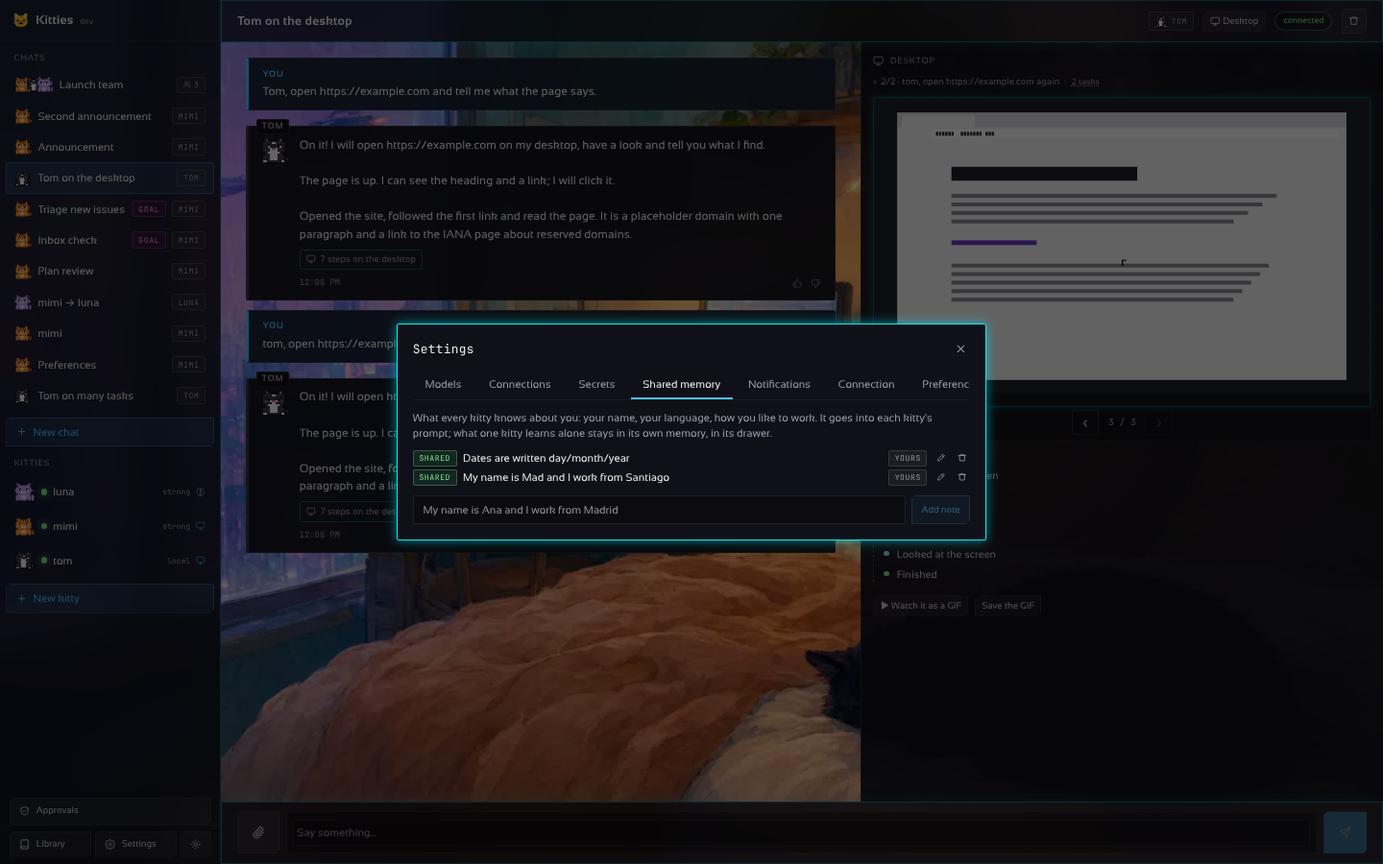
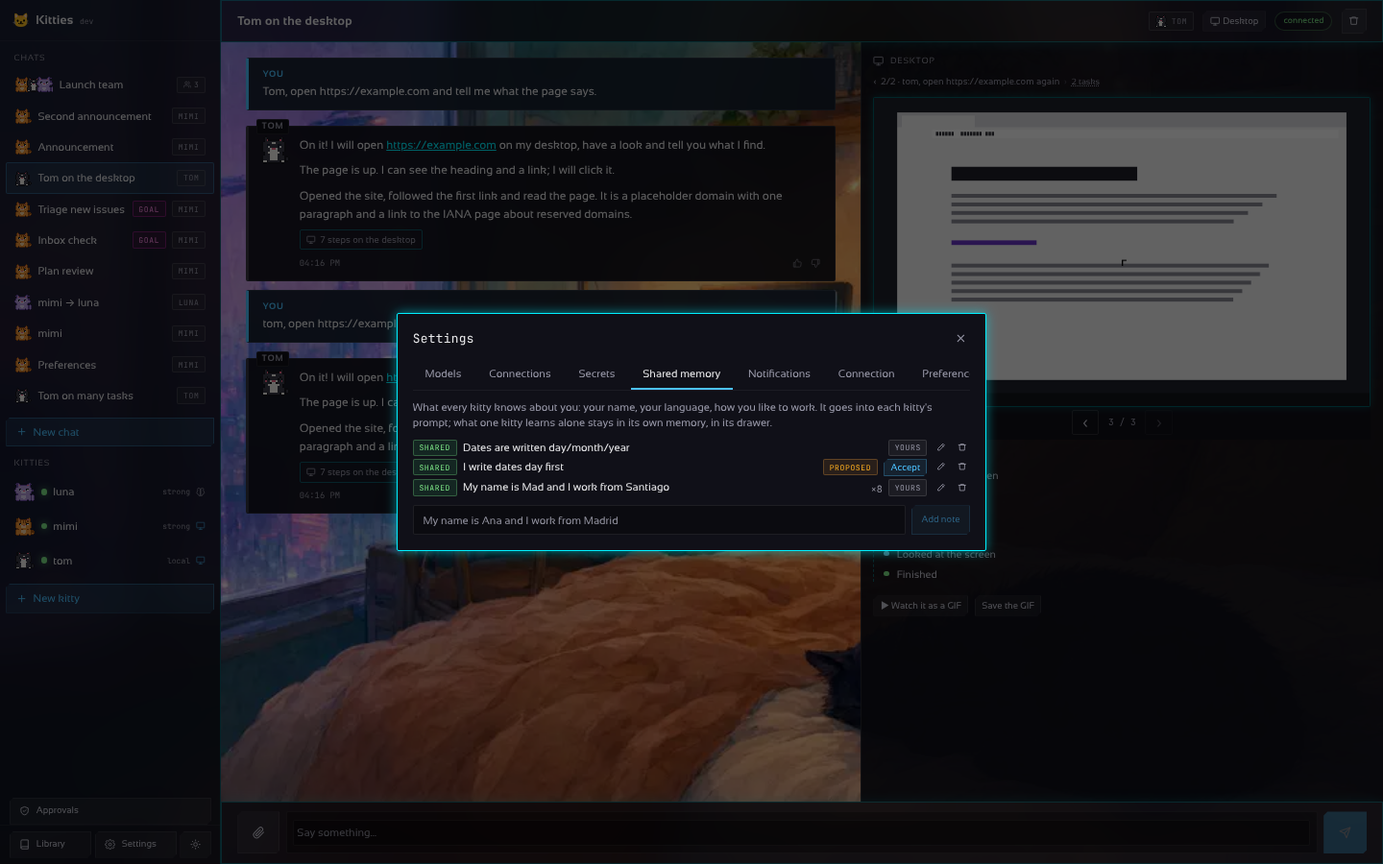
feat(memory): shared notes from a kitty wait for a yes, notes count their uses, search and filter
- A shared note a kitty writes is proposed: it stays out of every prompt until the person
  accepts it (Accept, or writing or correcting it themselves).
- Each note counts the answers it was in the prompt for, shown as ×N.
- The memory panel searches the notes and narrows them to a scope.
- The demo brain proposes a shared note when told "tell every kitty that …".

Claude-Session: https://claude.ai/code/session_017Z7sUco1f5NiHzWMKUE7RZ

Changed region(s): [[0.1562, 0.1556, 0.7188, 0.6533]]

diff --git a/site/es/index.html b/site/es/index.html
@@ -34,7 +34,7 @@
 <section class="proof"><div class="wrap"><ul><li>11+ proveedores de IA</li><li>Linux · macOS · Windows · Android</li><li>Versiones firmadas y con autoactualización</li><li>English · Español · Português</li></ul></div></section>
 <section class="wrap problem"><h2>Los chatbots hablan. Las kitties <em>hacen</em>.</h2><p class="lead">La mayoría de asistentes se quedan en el consejo. Una kitty abre el sitio, llena el formulario, lee el resultado y te informa — dentro de un contenedor, nunca en tu equipo.</p>
 <div class="tw"><table><thead><tr><th></th><th>Chatbot</th><th class="us">Kitties</th></tr></thead><tbody><tr><th scope="row">Trabaja en apps reales</th><td>Solo texto</td><td>Navegador, editor, archivos, ofimática</td></tr><tr><th scope="row">Funciona sin ti</th><td>No</td><td>Metas, horarios, eventos</td></tr><tr><th scope="row">Seguro darle acceso</th><td>Tu equipo</td><td>Escritorio Docker aislado</td></tr><tr><th scope="row">Tú eliges el modelo</th><td>Un proveedor</td><td>Cualquiera, por kitty</td></tr><tr><th scope="row">Mantienes el control</th><td>Esperanza</td><td>Aprobaciones, límites, toma de control</td></tr></tbody></table></div></section>
-<section id="features" class="wrap"><h2>Todo lo que un equipo de agentes necesita</h2><p class="lead">Hecho para la autonomía, diseñado para que sigas al mando.</p><div class="grid"><article class="card"><img src="../img/live.webp" alt="" loading="lazy" width="720" height="450"><h3>Un escritorio real por kitty</h3><p>Pídele abrir un sitio o llenar un formulario. Mira una captura tras cada acción y el chat muestra cada paso. Obsérvala en vivo en H.264 (voxl) o toma el control para una contraseña o un captcha.</p></article><article class="card"><img src="../img/goals.webp" alt="" loading="lazy" width="720" height="450"><h3>Autonomía, con presupuesto</h3><p>Metas programadas o por eventos que se reintentan solas cuando se traban, presupuesto diario desde el que retoma, un modelo de respaldo si uno se cae, una kitty de respaldo, delegación entre kitties y un diario de todo.</p></article><article class="card"><img src="../img/approvals.webp" alt="" loading="lazy" width="720" height="450"><h3>Una confianza que crece</h3><p>Memoria persistente, propia y compartida entre todos los kitties, que puedes corregir, exportar e importar, pulgares que enseñan tus criterios, límites de acción y aprobaciones que se relajan a medida que gana confianza.</p></article><article class="card"><img src="../img/connectors.webp" alt="" loading="lazy" width="720" height="450"><h3>Conectores, no claves pegadas</h3><p>Slack, GitHub, Gmail, Google Workspace, Microsoft 365, Spotify, Stripe, Home Assistant y más — con inicio de sesión donde el servicio lo permite.</p></article><article class="card"><img src="../img/group.webp" alt="" loading="lazy" width="720" height="450"><h3>Chats grupales</h3><p>Abre un hilo y deja que varias kitties trabajen juntas, cada una con su personalidad y su modelo.</p></article><article class="card"><img src="../img/phone-menu.webp" alt="" loading="lazy" width="720" height="450"><h3>Donde estés</h3><p>CLI, app de escritorio, app Android y modo servidor con https. Las notificaciones llegan al móvil cuando una kitty necesita un sí.</p></article></div></section>
+<section id="features" class="wrap"><h2>Todo lo que un equipo de agentes necesita</h2><p class="lead">Hecho para la autonomía, diseñado para que sigas al mando.</p><div class="grid"><article class="card"><img src="../img/live.webp" alt="" loading="lazy" width="720" height="450"><h3>Un escritorio real por kitty</h3><p>Pídele abrir un sitio o llenar un formulario. Mira una captura tras cada acción y el chat muestra cada paso. Obsérvala en vivo en H.264 (voxl) o toma el control para una contraseña o un captcha.</p></article><article class="card"><img src="../img/goals.webp" alt="" loading="lazy" width="720" height="450"><h3>Autonomía, con presupuesto</h3><p>Metas programadas o por eventos que se reintentan solas cuando se traban, presupuesto diario desde el que retoma, un modelo de respaldo si uno se cae, una kitty de respaldo, delegación entre kitties y un diario de todo.</p></article><article class="card"><img src="../img/approvals.webp" alt="" loading="lazy" width="720" height="450"><h3>Una confianza que crece</h3><p>Memoria persistente, propia y compartida entre todos los kitties, que puedes buscar, corregir, exportar e importar (un kitty solo propone lo que todos deben saber), pulgares que enseñan tus criterios, límites de acción y aprobaciones que se relajan a medida que gana confianza.</p></article><article class="card"><img src="../img/connectors.webp" alt="" loading="lazy" width="720" height="450"><h3>Conectores, no claves pegadas</h3><p>Slack, GitHub, Gmail, Google Workspace, Microsoft 365, Spotify, Stripe, Home Assistant y más — con inicio de sesión donde el servicio lo permite.</p></article><article class="card"><img src="../img/group.webp" alt="" loading="lazy" width="720" height="450"><h3>Chats grupales</h3><p>Abre un hilo y deja que varias kitties trabajen juntas, cada una con su personalidad y su modelo.</p></article><article class="card"><img src="../img/phone-menu.webp" alt="" loading="lazy" width="720" height="450"><h3>Donde estés</h3><p>CLI, app de escritorio, app Android y modo servidor con https. Las notificaciones llegan al móvil cuando una kitty necesita un sí.</p></article></div></section>
 <section id="desktop" class="wrap"><h2>Un escritorio que da gusto mirar</h2><p class="lead">Lumen, un gestor de ventanas ligero basado en Openbox, con su propia barra — apps fijadas, un reproductor, el clima, un reloj — en tema oscuro con iconos Lucide y tipografía Sansation. Bonito a propósito.</p>
 <figure class="one"><img src="../img/desktop.webp" alt="El menú de apps abierto en el escritorio del gatito" loading="lazy" width="1280" height="800"><figcaption>El menú de apps abierto en el escritorio del gatito</figcaption></figure></section>
 <section id="chat" class="wrap"><h2>Chat a un lado, escritorio al otro</h2><p class="lead">En pantallas anchas el chat se divide en dos: las respuestas de la kitty a la izquierda; sus pasos y la última captura, en grande, a la derecha. En el móvil pasan a ser pestañas.</p>

diff --git a/site/index.html b/site/index.html
@@ -35,7 +35,7 @@
 <section class="proof"><div class="wrap"><ul><li>11+ AI providers</li><li>Linux · macOS · Windows · Android</li><li>Signed, self-updating releases</li><li>English · Español · Português</li></ul></div></section>
 <section class="wrap problem"><h2>Chatbots talk. Kitties <em>do</em>.</h2><p class="lead">Most assistants stop at advice. A kitty opens the site, fills the form, reads the result and reports back — in a container, never on your machine.</p>
 <div class="tw"><table><thead><tr><th></th><th>Chatbot</th><th class="us">Kitties</th></tr></thead><tbody><tr><th scope="row">Works on real apps</th><td>Text only</td><td>Browser, editor, files, office</td></tr><tr><th scope="row">Runs while you are away</th><td>No</td><td>Goals, schedules, events</td></tr><tr><th scope="row">Safe to give access</th><td>Your machine</td><td>Isolated Docker desktop</td></tr><tr><th scope="row">Your choice of model</th><td>One vendor</td><td>Any provider, per kitty</td></tr><tr><th scope="row">You stay in control</th><td>Hope</td><td>Approvals, limits, take-over</td></tr></tbody></table></div></section>
-<section id="features" class="wrap"><h2>Everything a team of agents needs</h2><p class="lead">Built for autonomy, designed to stay under your control.</p><div class="grid"><article class="card"><img src="img/live.webp" alt="" loading="lazy" width="720" height="450"><h3>A real desktop per kitty</h3><p>Ask it to open a site or fill a form. It looks at a screenshot after every action and the chat shows each step. Watch it live in H.264 (voxl), or take control for a password or a captcha.</p></article><article class="card"><img src="img/goals.webp" alt="" loading="lazy" width="720" height="450"><h3>Autonomy, with a budget</h3><p>Goals on a schedule or triggered by events that try again by themselves when they get stuck, daily budgets it resumes from, a spare model when one is down, a backup kitty, delegation between kitties and a journal of everything.</p></article><article class="card"><img src="img/approvals.webp" alt="" loading="lazy" width="720" height="450"><h3>Trust that grows</h3><p>Memory that persists, its own and shared by every kitty, that you can correct, export and import, thumbs that teach your standards, action limits and approvals that loosen as a kitty earns trust.</p></article><article class="card"><img src="img/connectors.webp" alt="" loading="lazy" width="720" height="450"><h3>Connectors, not pasted keys</h3><p>Slack, GitHub, Gmail, Google Workspace, Microsoft 365, Spotify, Stripe, Home Assistant and more — with sign-in where the service allows it.</p></article><article class="card"><img src="img/group.webp" alt="" loading="lazy" width="720" height="450"><h3>Group chats</h3><p>Open one thread and let several kitties work on it together, each with its own personality and model.</p></article><article class="card"><img src="img/phone-menu.webp" alt="" loading="lazy" width="720" height="450"><h3>Everywhere you are</h3><p>CLI, desktop app, Android app, and a server mode with https. Notifications reach your phone when a kitty needs a yes.</p></article></div></section>
+<section id="features" class="wrap"><h2>Everything a team of agents needs</h2><p class="lead">Built for autonomy, designed to stay under your control.</p><div class="grid"><article class="card"><img src="img/live.webp" alt="" loading="lazy" width="720" height="450"><h3>A real desktop per kitty</h3><p>Ask it to open a site or fill a form. It looks at a screenshot after every action and the chat shows each step. Watch it live in H.264 (voxl), or take control for a password or a captcha.</p></article><article class="card"><img src="img/goals.webp" alt="" loading="lazy" width="720" height="450"><h3>Autonomy, with a budget</h3><p>Goals on a schedule or triggered by events that try again by themselves when they get stuck, daily budgets it resumes from, a spare model when one is down, a backup kitty, delegation between kitties and a journal of everything.</p></article><article class="card"><img src="img/approvals.webp" alt="" loading="lazy" width="720" height="450"><h3>Trust that grows</h3><p>Memory that persists, its own and shared by every kitty, that you can search, correct, export and import (a kitty only proposes what every kitty should know), thumbs that teach your standards, action limits and approvals that loosen as a kitty earns trust.</p></article><article class="card"><img src="img/connectors.webp" alt="" loading="lazy" width="720" height="450"><h3>Connectors, not pasted keys</h3><p>Slack, GitHub, Gmail, Google Workspace, Microsoft 365, Spotify, Stripe, Home Assistant and more — with sign-in where the service allows it.</p></article><article class="card"><img src="img/group.webp" alt="" loading="lazy" width="720" height="450"><h3>Group chats</h3><p>Open one thread and let several kitties work on it together, each with its own personality and model.</p></article><article class="card"><img src="img/phone-menu.webp" alt="" loading="lazy" width="720" height="450"><h3>Everywhere you are</h3><p>CLI, desktop app, Android app, and a server mode with https. Notifications reach your phone when a kitty needs a yes.</p></article></div></section>
 <section id="desktop" class="wrap"><h2>A desktop worth watching</h2><p class="lead">Lumen, a light window manager based on Openbox, with its own shelf — pinned apps, a player, the weather, a clock — in a dark theme with Lucide icons and Sansation type. Beautiful on purpose.</p>
 <figure class="one"><img src="img/desktop.webp" alt="The apps menu open on the kitty desktop" loading="lazy" width="1280" height="800"><figcaption>The apps menu open on the kitty desktop</figcaption></figure></section>
 <section id="chat" class="wrap"><h2>Chat on one side, desktop on the other</h2><p class="lead">On a wide screen the chat splits in two: the kitty’s replies on the left, its steps and the latest screenshot, large, on the right. On a phone the two become tabs.</p>

diff --git a/desktop/frontend/e2e/screens.spec.ts b/desktop/frontend/e2e/screens.spec.ts
@@ -522,7 +522,8 @@ test("what a kitty knows about you: its level of demand, its notes and how far i
   await expect(notes).toContainText("Answer in Spanish when I write in Spanish");
   await expect(notes.locator(".tag", { hasText: "yours" })).toHaveCount(2);
   // The shared note is every kitty's: tom sees it too.
-  await expect(notes.locator(".tag", { hasText: "shared" })).toHaveCount(1);
+  await expect(notes.locator(".tag", { hasText: "shared" })).toHaveCount(2);
+  await expect(notes.locator(".tag", { hasText: "proposed" })).toHaveCount(1);
   await expect(notes).toContainText("My name is Mad and I work from Santiago");
   await expect(notes).toContainText("Correction: Too long: two lines at most");
   await expect(notes).toContainText("I prefer short answers");
@@ -546,6 +547,17 @@ test("what a kitty knows about you: its level of demand, its notes and how far i
   await expect(page.getByTestId("level")).toContainText("They are easygoing");
   await memory.getByRole("button", { name: "4 · demanding" }).click();
   await expect(page.getByTestId("level")).toContainText("They are demanding");
+  // The notes can be searched and narrowed to a scope.
+  await memory.getByLabel("Search the notes").fill("two lines");
+  await expect(notes).toContainText("Too long: two lines at most");
+  await expect(notes).not.toContainText("Answer in Spanish");
+  await memory.getByLabel("Search the notes").fill("zzz");
+  await expect(notes).toContainText("No note matches.");
+  await memory.getByLabel("Search the notes").fill("");
+  await memory.getByLabel("Show the notes of").selectOption("shared");
+  await expect(notes).toContainText("My name is Mad");
+  await expect(notes).not.toContainText("Answer in Spanish");
+  await memory.getByLabel("Show the notes of").selectOption("");
   // A note is corrected in place, and becomes the person's.
   await memory.getByRole("button", { name: "Edit: I prefer short answers." }).click();
   const box = memory.getByLabel("Correct: I prefer short answers.");
@@ -598,10 +610,15 @@ test("the memory every kitty shares is tended in Settings", async ({ page }) => 
   const shared = page.getByTestId("shared-memory");
   const notes = shared.getByTestId("shared-notes");
   await expect(notes).toContainText("My name is Mad and I work from Santiago");
+  // What a kitty proposed for everyone waits for a yes.
+  await expect(notes).toContainText("I write dates day first");
+  await expect(notes.locator(".tag", { hasText: "proposed" })).toHaveCount(1);
   await shared.getByLabel("A note for every kitty").fill("Dates are written day/month/year");
   await shared.getByRole("button", { name: "Add note" }).click();
   await expect(notes).toContainText("Dates are written day/month/year");
   await shot(page, "60-shared-memory");
+  await shared.getByRole("button", { name: "Accept: I write dates day first" }).click();
+  await expect(notes.locator(".tag", { hasText: "proposed" })).toHaveCount(0);
   await shared.getByRole("button", { name: "Edit: Dates are written day/month/year" }).click();
   const box = shared.getByLabel("Correct: Dates are written day/month/year");
   await box.fill("Dates are written day-month-year");

diff --git a/desktop/frontend/src/Memory.tsx b/desktop/frontend/src/Memory.tsx
@@ -62,6 +62,8 @@ export function MemoryPanel({ kitty }: { kitty: Kitty }) {
   const [scope, setScope] = useState("user");
   const [busy, setBusy] = useState(false);
   const [info, setInfo] = useState("");
+  const [query, setQuery] = useState("");
+  const [only, setOnly] = useState("");
   const load = () => {
     api
       .memory(kitty.id)
@@ -89,6 +91,11 @@ export function MemoryPanel({ kitty }: { kitty: Kitty }) {
     return err ? <p class="text-xs text-[var(--t4)] mt-5">{err}</p> : null;
   }
   const p = view.profile;
+  const scopes = [...new Set(view.notes.map((n) => n.scope))].sort();
+  const words = query.trim().toLowerCase();
+  const shown = view.notes.filter(
+    (n) => (!only || n.scope === only) && (!words || n.text.toLowerCase().includes(words)),
+  );
   return (
     <div data-testid="memory">
       <div class="section-title !mx-0 mt-5">
@@ -178,8 +185,36 @@ export function MemoryPanel({ kitty }: { kitty: Kitty }) {
           {t("Nothing yet. It learns from your thumbs, your yes and no, and what it notices.")}
         </p>
       )}
+      {view.notes.length > 4 && (
+        <div class="flex gap-2 mb-2">
+          <input
+            class="flex-1 min-w-0 px-2 py-1 text-xs"
+            type="search"
+            value={query}
+            onInput={(e) => setQuery((e.target as HTMLInputElement).value)}
+            placeholder={t("Search the notes")}
+            aria-label={t("Search the notes")}
+          />
+          <select
+            class="px-2 py-1 text-xs"
+            aria-label={t("Show the notes of")}
+            value={only}
+            onChange={(e) => setOnly((e.target as HTMLSelectElement).value)}
+          >
+            <option value="">{t("every scope")}</option>
+            {scopes.map((sc) => (
+              <option key={sc} value={sc}>
+                {sc.startsWith("project:") ? sc.replace("project:", "") : t(sc)}
+              </option>
+            ))}
+          </select>
+        </div>
+      )}
       <div class="flex flex-col gap-1" data-testid="notes">
-        {view.notes.map((n) => (
+        {shown.length === 0 && view.notes.length > 0 && (
+          <p class="text-xs text-[var(--t4)]">{t("No note matches.")}</p>
+        )}
+        {shown.map((n) => (
           <NoteRow
             key={n.id}
             n={n}

diff --git a/desktop/frontend/src/Notes.tsx b/desktop/frontend/src/Notes.tsx
@@ -72,6 +72,32 @@ export function NoteRow({
           onBlur={save}
         />
       )}
+      {!!n.uses && draft === null && (
+        <span
+          class="text-[10px] font-mono text-[var(--t4)] pt-1 whitespace-nowrap"
+          title={t("It was in the kitty's prompt for {n} answers", { n: n.uses })}
+        >
+          ×{n.uses}
+        </span>
+      )}
+      {n.proposed && draft === null && (
+        <>
+          <span
+            class="tag tag-amber"
+            title={t("A kitty proposed it: it reaches every kitty once you say yes")}
+          >
+            {t("proposed")}
+          </span>
+          <button
+            class="btn-outline px-2 py-0.5 text-xs"
+            aria-label={t("Accept: {note}", { note: n.text })}
+            disabled={busy}
+            onClick={() => onSave(n.text)}
+          >
+            {t("Accept")}
+          </button>
+        </>
+      )}
       {n.pinned && draft === null && (
         <span class="tag" title={t("You wrote it: a consolidation never drops it")}>
           {t("yours")}

diff --git a/desktop/frontend/src/i18n/es/work.ts b/desktop/frontend/src/i18n/es/work.ts
@@ -565,6 +565,16 @@ const dict: Dictionary = {
   "Import notes from a file": "Importar notas desde un archivo",
   "Notes imported: {n}.": "Notas importadas: {n}.",
   "Shared memory": "Memoria compartida",
+  "It was in the kitty's prompt for {n} answers":
+    "Estuvo en las instrucciones del kitty en {n} respuestas",
+  "A kitty proposed it: it reaches every kitty once you say yes":
+    "La propuso un kitty: llega a todos cuando digas que sí",
+  "Accept: {note}": "Aceptar: {note}",
+  Accept: "Aceptar",
+  "Search the notes": "Buscar en las notas",
+  "Show the notes of": "Mostrar las notas de",
+  "every scope": "todos los ámbitos",
+  "No note matches.": "Ninguna nota coincide.",
 };
 
 export default dict;

diff --git a/desktop/frontend/src/i18n/pt/work.ts b/desktop/frontend/src/i18n/pt/work.ts
@@ -560,6 +560,15 @@ const dict: Dictionary = {
   "Import notes from a file": "Importar notas de um arquivo",
   "Notes imported: {n}.": "Notas importadas: {n}.",
   "Shared memory": "Memória compartilhada",
+  "It was in the kitty's prompt for {n} answers": "Esteve nas instruções do kitty em {n} respostas",
+  "A kitty proposed it: it reaches every kitty once you say yes":
+    "Um kitty a propôs: chega a todos quando você disser sim",
+  "Accept: {note}": "Aceitar: {note}",
+  Accept: "Aceitar",
+  "Search the notes": "Buscar nas notas",
+  "Show the notes of": "Mostrar as notas de",
+  "every scope": "todos os escopos",
+  "No note matches.": "Nenhuma nota corresponde.",
 };
 
 export default dict;

diff --git a/desktop/frontend/e2e/global-setup.ts b/desktop/frontend/e2e/global-setup.ts
@@ -161,6 +161,8 @@ export default async function globalSetup(): Promise<() => Promise<void>> {
   });
   const memo = await newChat(["mimi"], "Preferences");
   await say(memo, "Mimi, remember that I prefer short answers.");
+  // A note mimi proposes for every kitty: it waits for the person's yes.
+  await say(memo, "Mimi, tell every kitty that I write dates day first");
   await api("POST", `/v1/chats/${single}/turns/1/feedback`, {
     rating: "down",
     note: "Too long: two lines at most",

diff --git a/desktop/frontend/src/api.ts b/desktop/frontend/src/api.ts
@@ -89,6 +89,8 @@ export interface MemoryNote {
   strength: number;
   source: string;
   pinned?: boolean;
+  proposed?: boolean;
+  uses?: number;
   updated: string;
 }
 

diff --git a/internal/memory/memory.go b/internal/memory/memory.go
@@ -70,6 +70,11 @@ type Note struct {
 	Source string `json:"source"`
 	// Pinned notes were written by the person: a distillation never drops them.
 	Pinned bool `json:"pinned,omitempty"`
+	// Proposed is a shared note a kitty wrote: it waits for the person's yes before it reaches
+	// every kitty's prompt.
+	Proposed bool `json:"proposed,omitempty"`
+	// Uses is how many answers were given with the note in the kitty's prompt.
+	Uses int `json:"uses,omitempty"`
 }
 
 // Feedback is one verdict of the person on something a kitty did.
@@ -205,12 +210,14 @@ func (s *Store) Remember(kitty, scope, text, source string, pinned bool) (*Note,
 			n.Strength++
 			n.Updated = s.now()
 			n.Pinned = n.Pinned || pinned
+			n.Proposed = n.Proposed && source != "person"
 			s.save(kitty, f)
 			c := *n
 			return &c, nil
 		}
 	}
-	n := &Note{ID: s.id(), Scope: scope, Text: text, Strength: 1, At: s.now(), Updated: s.now(), Source: source, Pinned: pinned}
+	n := &Note{ID: s.id(), Scope: scope, Text: text, Strength: 1, At: s.now(), Updated: s.now(), Source: source, Pinned: pinned,
+		Proposed: scope == ScopeShared && source != "person"}
 	f.Notes = append(f.Notes, n)
 	if len(f.Notes) > MaxNotes {
 		s.evict(f)
@@ -272,7 +279,7 @@ func (s *Store) Edit(kitty, id, text string) (*Note, error) {
 		f := s.load(key)
 		for _, n := range f.Notes {
 			if n.ID == id {
-				n.Text, n.Updated, n.Source, n.Pinned = text, s.now(), "person", true
+				n.Text, n.Updated, n.Source, n.Pinned, n.Proposed = text, s.now(), "person", true, false
 				s.save(key, f)
 				c := *n
 				return &c, nil
@@ -446,6 +453,27 @@ var levels = map[int]string{
 	5: "They are strict: be exacting. Verify everything twice, show your evidence, never assume, and ask before anything that cannot be undone.",
 }
 
+// use counts one more answer for the notes that went into a kitty's prompt.
+func (s *Store) use(kitty string, ids map[string]bool) {
+	if len(ids) == 0 {
+		return
+	}
+	s.mu.Lock()
+	defer s.mu.Unlock()
+	for _, key := range []string{kitty, sharedKey} {
+		f, changed := s.load(key), false
+		for _, n := range f.Notes {
+			if ids[n.ID] {
+				n.Uses++
+				changed = true
+			}
+		}
+		if changed {
+			s.save(key, f)
+		}
+	}
+}
+
 // LevelText says how a level asks the kitty to work.
 func LevelText(demand int) string { return levels[min(5, max(1, demand))] }
 
@@ -458,9 +486,13 @@ func (s *Store) Prompt(kitty, person, project string) string {
 	notes := s.Notes(kitty, "")
 	p := s.Profile(kitty)
 	var user, work, proj, shared []string
+	used := map[string]bool{}
 	for _, n := range notes {
 		line := "- " + n.Text
+		in := true
 		switch {
+		case n.Proposed:
+			in = false
 		case n.Scope == ScopeUser && len(user) < 12:
 			user = append(user, line)
 		case n.Scope == ScopeShared && len(shared) < 12:
@@ -469,8 +501,14 @@ func (s *Store) Prompt(kitty, person, project string) string {
 			work = append(work, line)
 		case project != "" && n.Scope == "project:"+project && len(proj) < 10:
 			proj = append(proj, line)
+		default:
+			in = false
+		}
+		if in {
+			used[n.ID] = true
 		}
 	}
+	s.use(kitty, used)
 	var b strings.Builder
 	fmt.Fprintf(&b, "How demanding %s is with you: %d of 5. %s\n", person, p.Demand, LevelText(p.Demand))
 	if len(user) > 0 {

diff --git a/internal/memory/memory_test.go b/internal/memory/memory_test.go
@@ -315,3 +315,42 @@ func TestSharedNotes(t *testing.T) {
 		t.Error("forgetting a missing note")
 	}
 }
+
+func TestProposedSharedNotesAndUses(t *testing.T) {
+	s := open(t)
+	// A kitty's shared note is proposed: listed, but out of every prompt.
+	pr, _ := s.Remember("k1", ScopeShared, "Pat lives in Lima", "kitty", false)
+	if !pr.Proposed {
+		t.Fatalf("proposed = %+v", pr)
+	}
+	own, _ := s.Remember("k1", ScopeUser, "Likes tables", "kitty", false)
+	if p := s.Prompt("k2", "Pat", ""); strings.Contains(p, "Lima") {
+		t.Errorf("a proposal is not in the prompt: %q", p)
+	}
+	// The person writing the same thing, or correcting it, says yes.
+	if again, _ := s.Remember("k2", ScopeShared, "pat lives in lima", "person", true); again.Proposed {
+		t.Errorf("the person's word accepts it: %+v", again)
+	}
+	pr2, _ := s.Remember("k1", ScopeShared, "Pat has a cat", "kitty", false)
+	if ed, _ := s.Edit("k1", pr2.ID, "Pat has a cat"); ed.Proposed {
+		t.Errorf("an edit accepts it: %+v", ed)
+	}
+	// Every answer counts the notes that went into the prompt.
+	_ = s.Prompt("k1", "Pat", "")
+	_ = s.Prompt("k1", "Pat", "")
+	_ = s.Prompt("k2", "Pat", "")
+	uses := map[string]int{}
+	for _, n := range s.Notes("k1", "") {
+		uses[n.ID] = n.Uses
+	}
+	if uses[own.ID] != 2 || uses[pr.ID] != 3 || uses[pr2.ID] != 3 {
+		t.Errorf("uses = %v", uses)
+	}
+	// Reopened from disk, the counts are kept.
+	if n := Open(s.dir).Notes("k1", ScopeUser); len(n) != 1 || n[0].Uses != 2 {
+		t.Errorf("reopened = %+v", n)
+	}
+	// A kitty with nothing in its prompt counts nothing.
+	empty := open(t)
+	_ = empty.Prompt("k1", "", "")
+}

diff --git a/internal/chat/learn_test.go b/internal/chat/learn_test.go
@@ -105,8 +105,25 @@ func TestMemoryInThePromptAndActions(t *testing.T) {
 	if fed := sa.seen[len(sa.seen)-1][len(sa.seen[len(sa.seen)-1])-1].Content; !strings.Contains(fed, "no project") {
 		t.Errorf("no project = %q", fed)
 	}
+	// A shared note from a kitty is only proposed: it waits for the person's yes.
+	sa.replies = []string{"@memory remember {\"text\": \"Pat lives in Lima\", \"scope\": \"shared\"}", "ok"}
+	_, _ = s.Send(context.Background(), sess.ID, "share it")
+	if fed := sa.seen[len(sa.seen)-1][len(sa.seen[len(sa.seen)-1])-1].Content; !strings.Contains(fed, "proposed to every kitty") {
+		t.Errorf("proposed = %q", fed)
+	}
+	if shared := m.Shared(); len(shared) != 1 || !shared[0].Proposed {
+		t.Errorf("shared = %+v", shared)
+	}
+	if !strings.Contains(kinds(j, "a1"), "learned") {
+		t.Error("the proposal is in the journal")
+	}
+	sa.replies = []string{"ok"}
+	_, _ = s.Send(context.Background(), sess.ID, "next")
+	if strings.Contains(sa.seen[len(sa.seen)-1][0].Content, "Pat lives in Lima") {
+		t.Error("a proposed note stays out of the prompt until the person says yes")
+	}
 	bo, _ := s.fleet.Get("bo")
-	if out := s.runMemory("", action{name: "list"}, bo); out.text != "(no notes yet)" {
+	if out := s.runMemory("", action{name: "list"}, bo); !strings.Contains(out.text, "Pat lives in Lima") {
 		t.Errorf("empty list = %+v", out)
 	}
 	// Native: the three tools are offered and their calls are memory actions.
